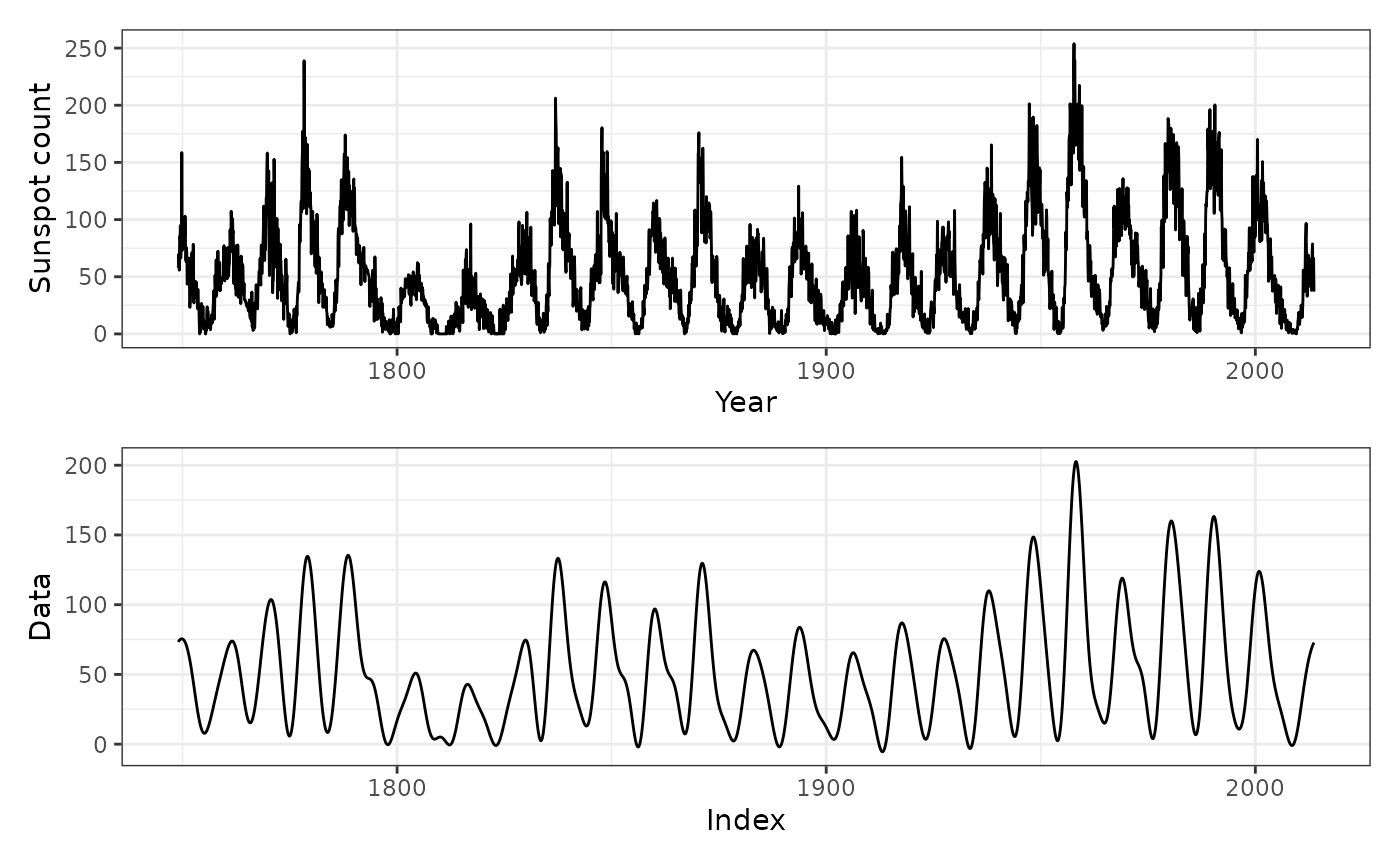
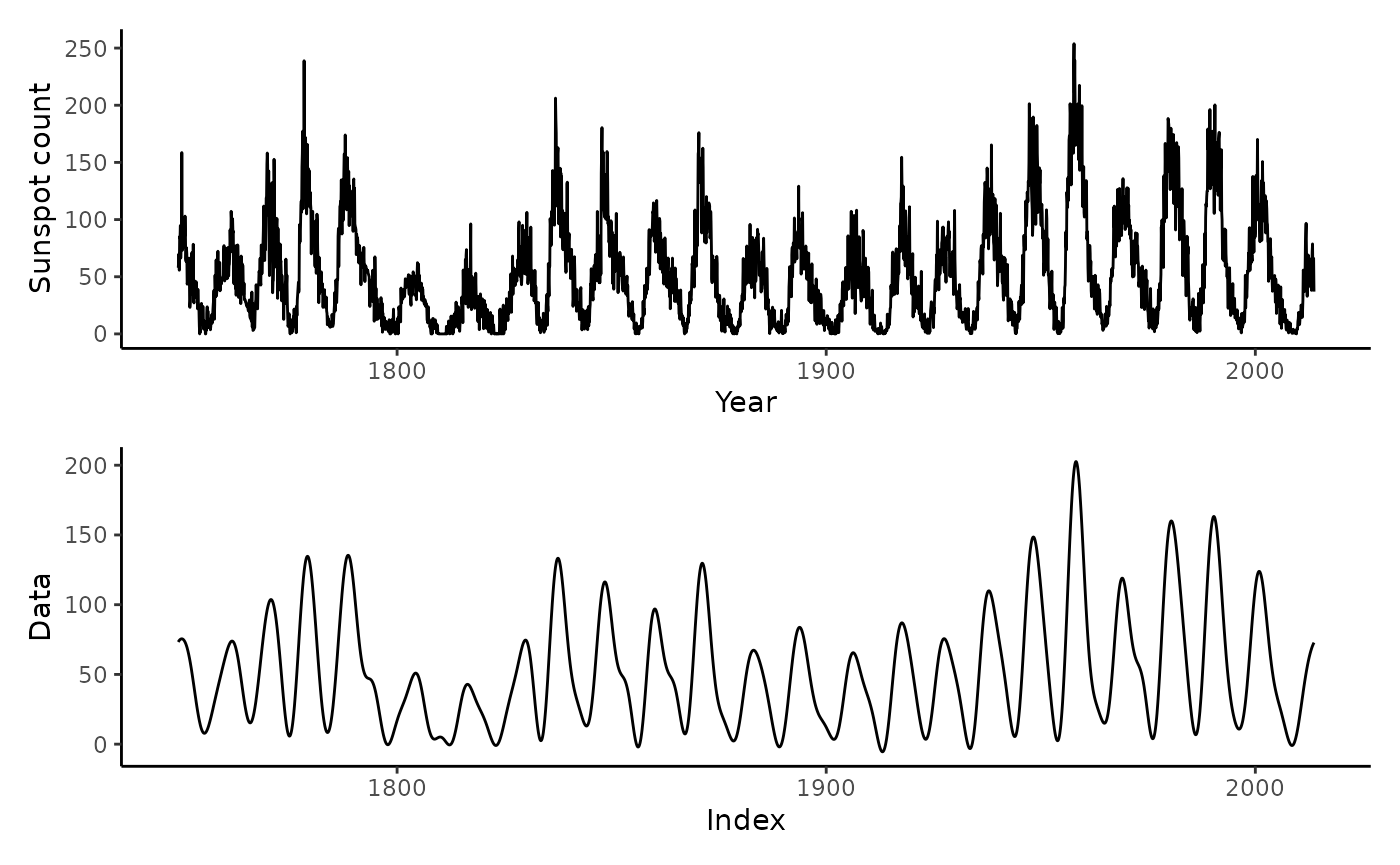
Deploying to gh-pages from @ thk686/fftab@1b48652dde98053a93dce88e51257a00b6e0d0f2 🚀

Changed region(s): [[0.0921, 0.874, 0.9829, 0.9052], [0.0921, 0.3746, 0.9829, 0.4058], [0.9521, 0.0312, 0.9829, 0.0624]]

diff --git a/articles/fftab.html b/articles/fftab.html
@@ -103,11 +103,16 @@ multidimensional arrays.</p>
 <span><span class="co">#&gt; <span style="color: #BCBCBC;">6</span> -<span style="color: #BB0000;">0.375</span> -2.747-3.093i</span></span>
 <span><span class="co">#&gt; <span style="color: #BCBCBC;">7</span> -<span style="color: #BB0000;">0.25</span>  -1.288+3.676i</span></span>
 <span><span class="co">#&gt; <span style="color: #BCBCBC;">8</span> -<span style="color: #BB0000;">0.125</span> -0.526+0.225i</span></span></code></pre></div>
-<p>The output <code>tibble</code> includes: - <code>.dim_1</code>:
-Normalized frequencies in cycles per unit length. For an even-length
-vector, the maximum frequency is the Nyquist frequency (0.5).
-Frequencies wrap around zero, producing negative frequencies. -
-<code>fx</code>: Fourier coefficients in complex form.</p>
+<p>The output <code>tibble</code> includes:</p>
+<ul>
+<li>
+<code>.dim_1</code>: Normalized frequencies in cycles per unit
+length. For an even-length vector, the maximum frequency is the Nyquist
+frequency (0.5). Frequencies wrap around zero, producing negative
+frequencies.</li>
+<li>
+<code>fx</code>: Fourier coefficients in complex form.</li>
+</ul>
 <p>To facilitate manipulation, you can switch between
 representations—complex (<code>cplx</code>), rectangular
 (<code>rect</code>), and polar (<code>polr</code>):</p>
@@ -290,7 +295,7 @@ high-frequency components:</p>
 <span>  <span class="fu">geom_line</span><span class="op">(</span><span class="fu">aes</span><span class="op">(</span>x <span class="op">=</span> <span class="va">Index</span>, y <span class="op">=</span> <span class="va">Data</span><span class="op">)</span><span class="op">)</span> <span class="op">+</span></span>
 <span>  <span class="fu">ylab</span><span class="op">(</span><span class="st">"Sunspot count"</span><span class="op">)</span> <span class="op">+</span></span>
 <span>  <span class="fu">xlab</span><span class="op">(</span><span class="st">"Year"</span><span class="op">)</span> <span class="op">+</span></span>
-<span>  <span class="fu">theme_bw</span><span class="op">(</span><span class="op">)</span> <span class="op">-&gt;</span></span>
+<span>  <span class="fu">theme_classic</span><span class="op">(</span><span class="op">)</span> <span class="op">-&gt;</span></span>
 <span><span class="va">p1</span></span>
 <span></span>
 <span><span class="va">smoothed</span> <span class="op">&lt;-</span> <span class="va">sunspot.month</span> <span class="op">|&gt;</span></span>
@@ -301,7 +306,7 @@ high-frequency components:</p>
 <span></span>
 <span><span class="fu">ggplot</span><span class="op">(</span><span class="fu">fortify</span><span class="op">(</span><span class="va">smoothed</span><span class="op">)</span><span class="op">)</span> <span class="op">+</span></span>
 <span>  <span class="fu">geom_line</span><span class="op">(</span><span class="fu">aes</span><span class="op">(</span>x <span class="op">=</span> <span class="va">Index</span>, y <span class="op">=</span> <span class="va">Data</span><span class="op">)</span><span class="op">)</span> <span class="op">+</span></span>
-<span>  <span class="fu">theme_bw</span><span class="op">(</span><span class="op">)</span> <span class="op">-&gt;</span></span>
+<span>  <span class="fu">theme_classic</span><span class="op">(</span><span class="op">)</span> <span class="op">-&gt;</span></span>
 <span><span class="va">p2</span></span>
 <span></span>
 <span><span class="va">p1</span> <span class="op">/</span> <span class="va">p2</span></span></code></pre></div>
